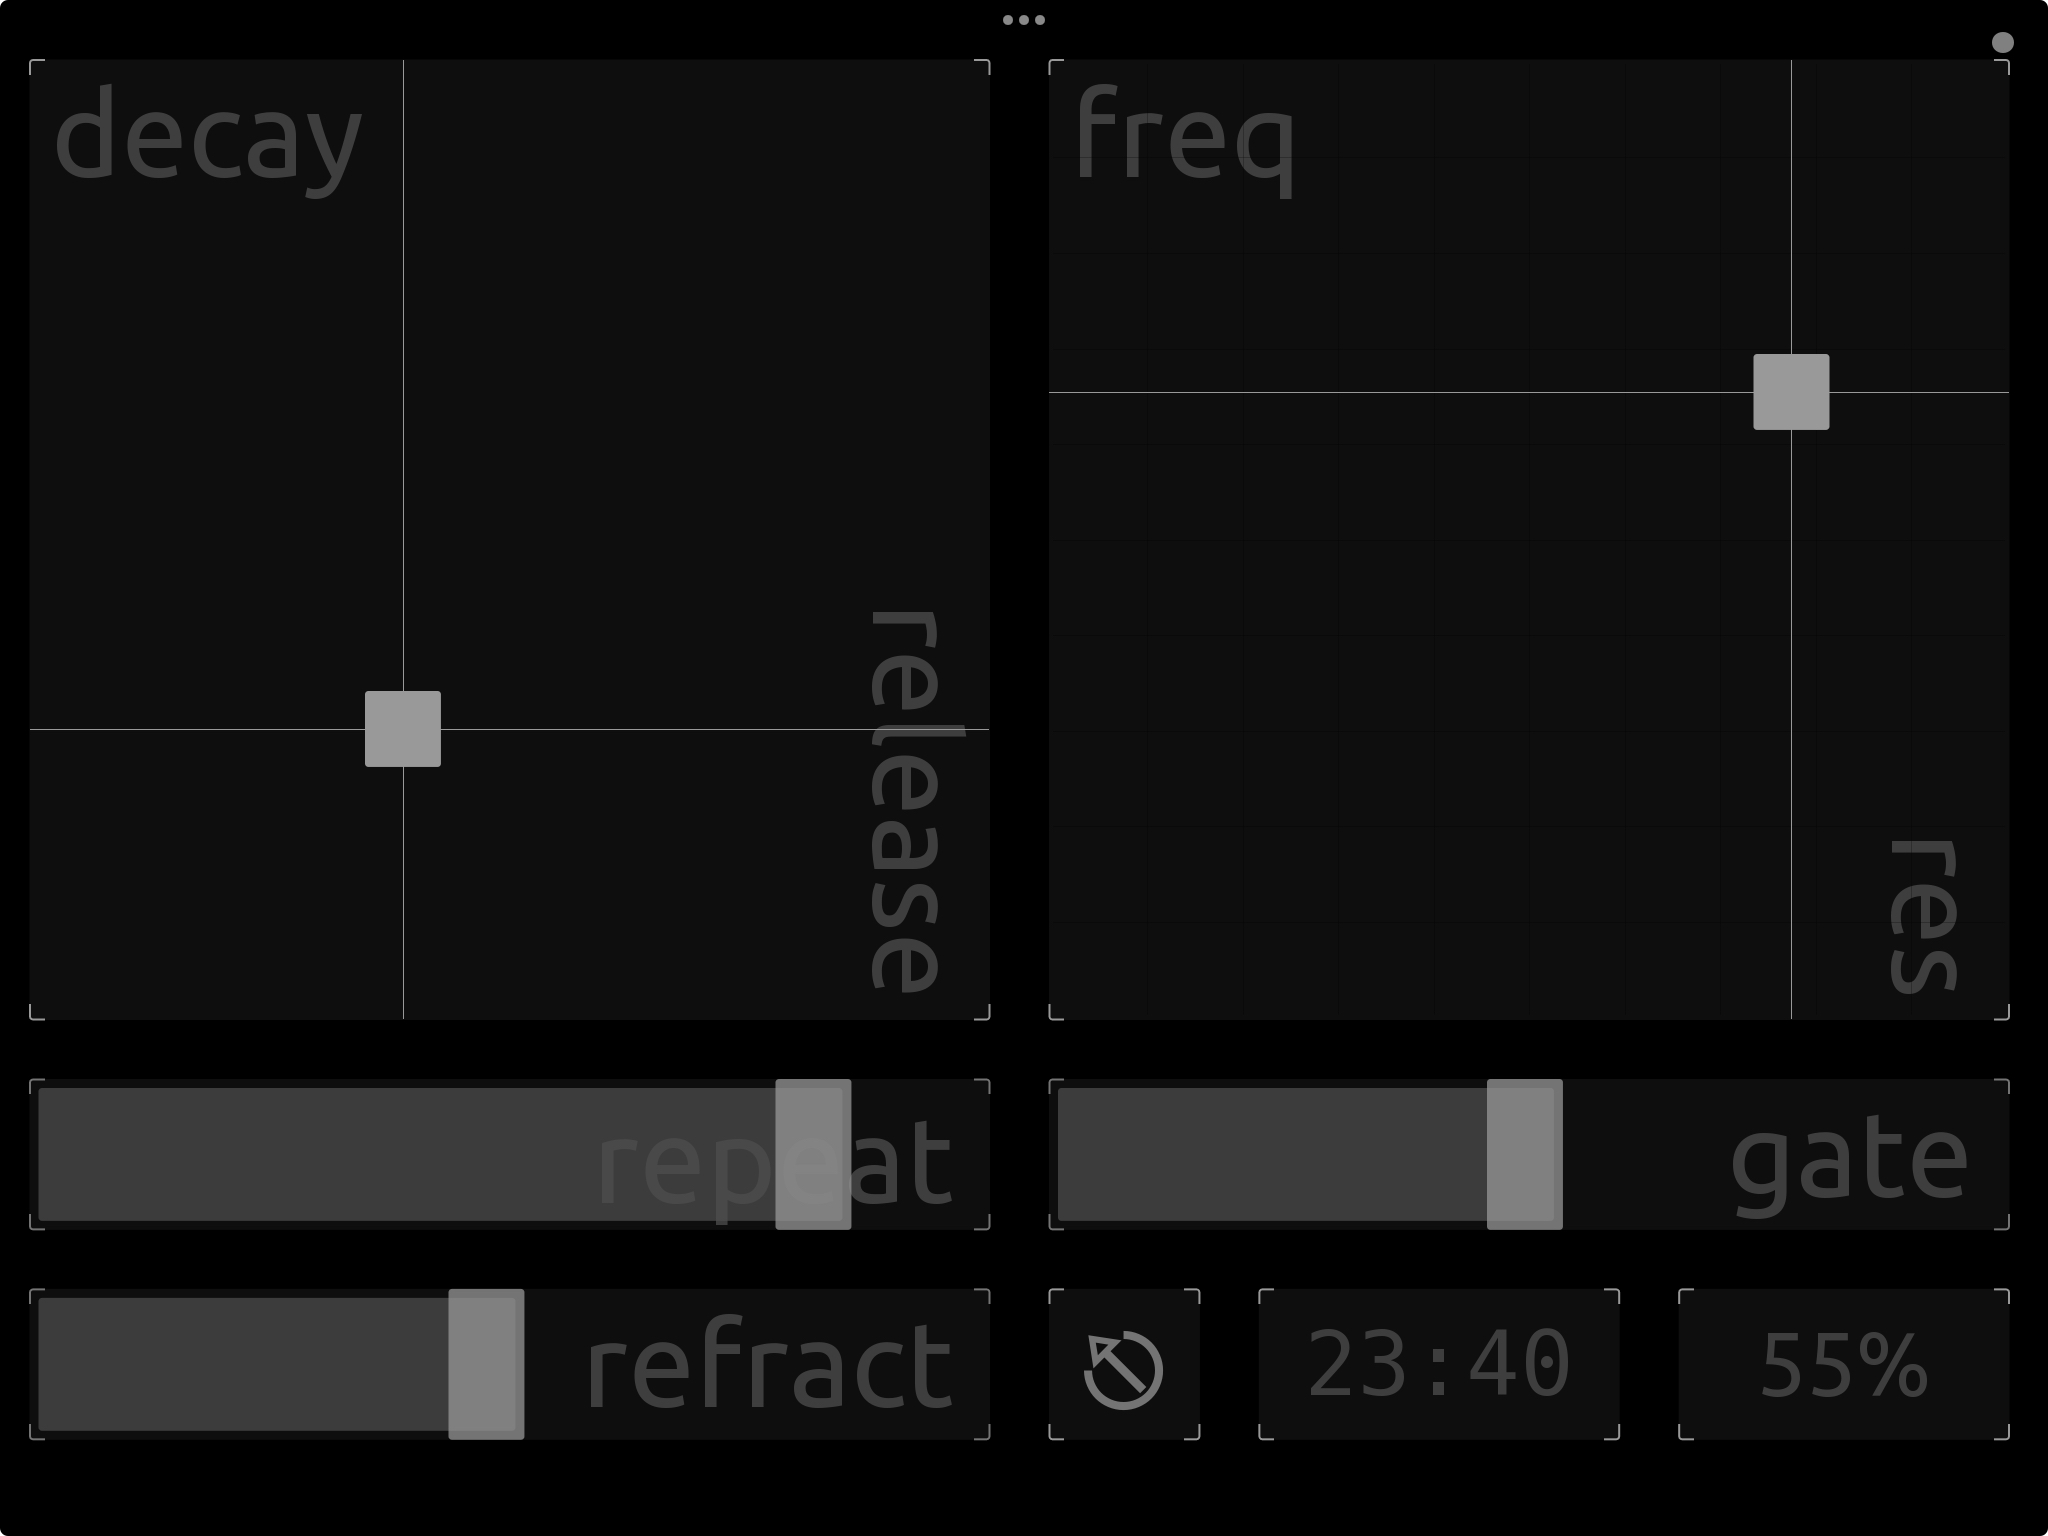
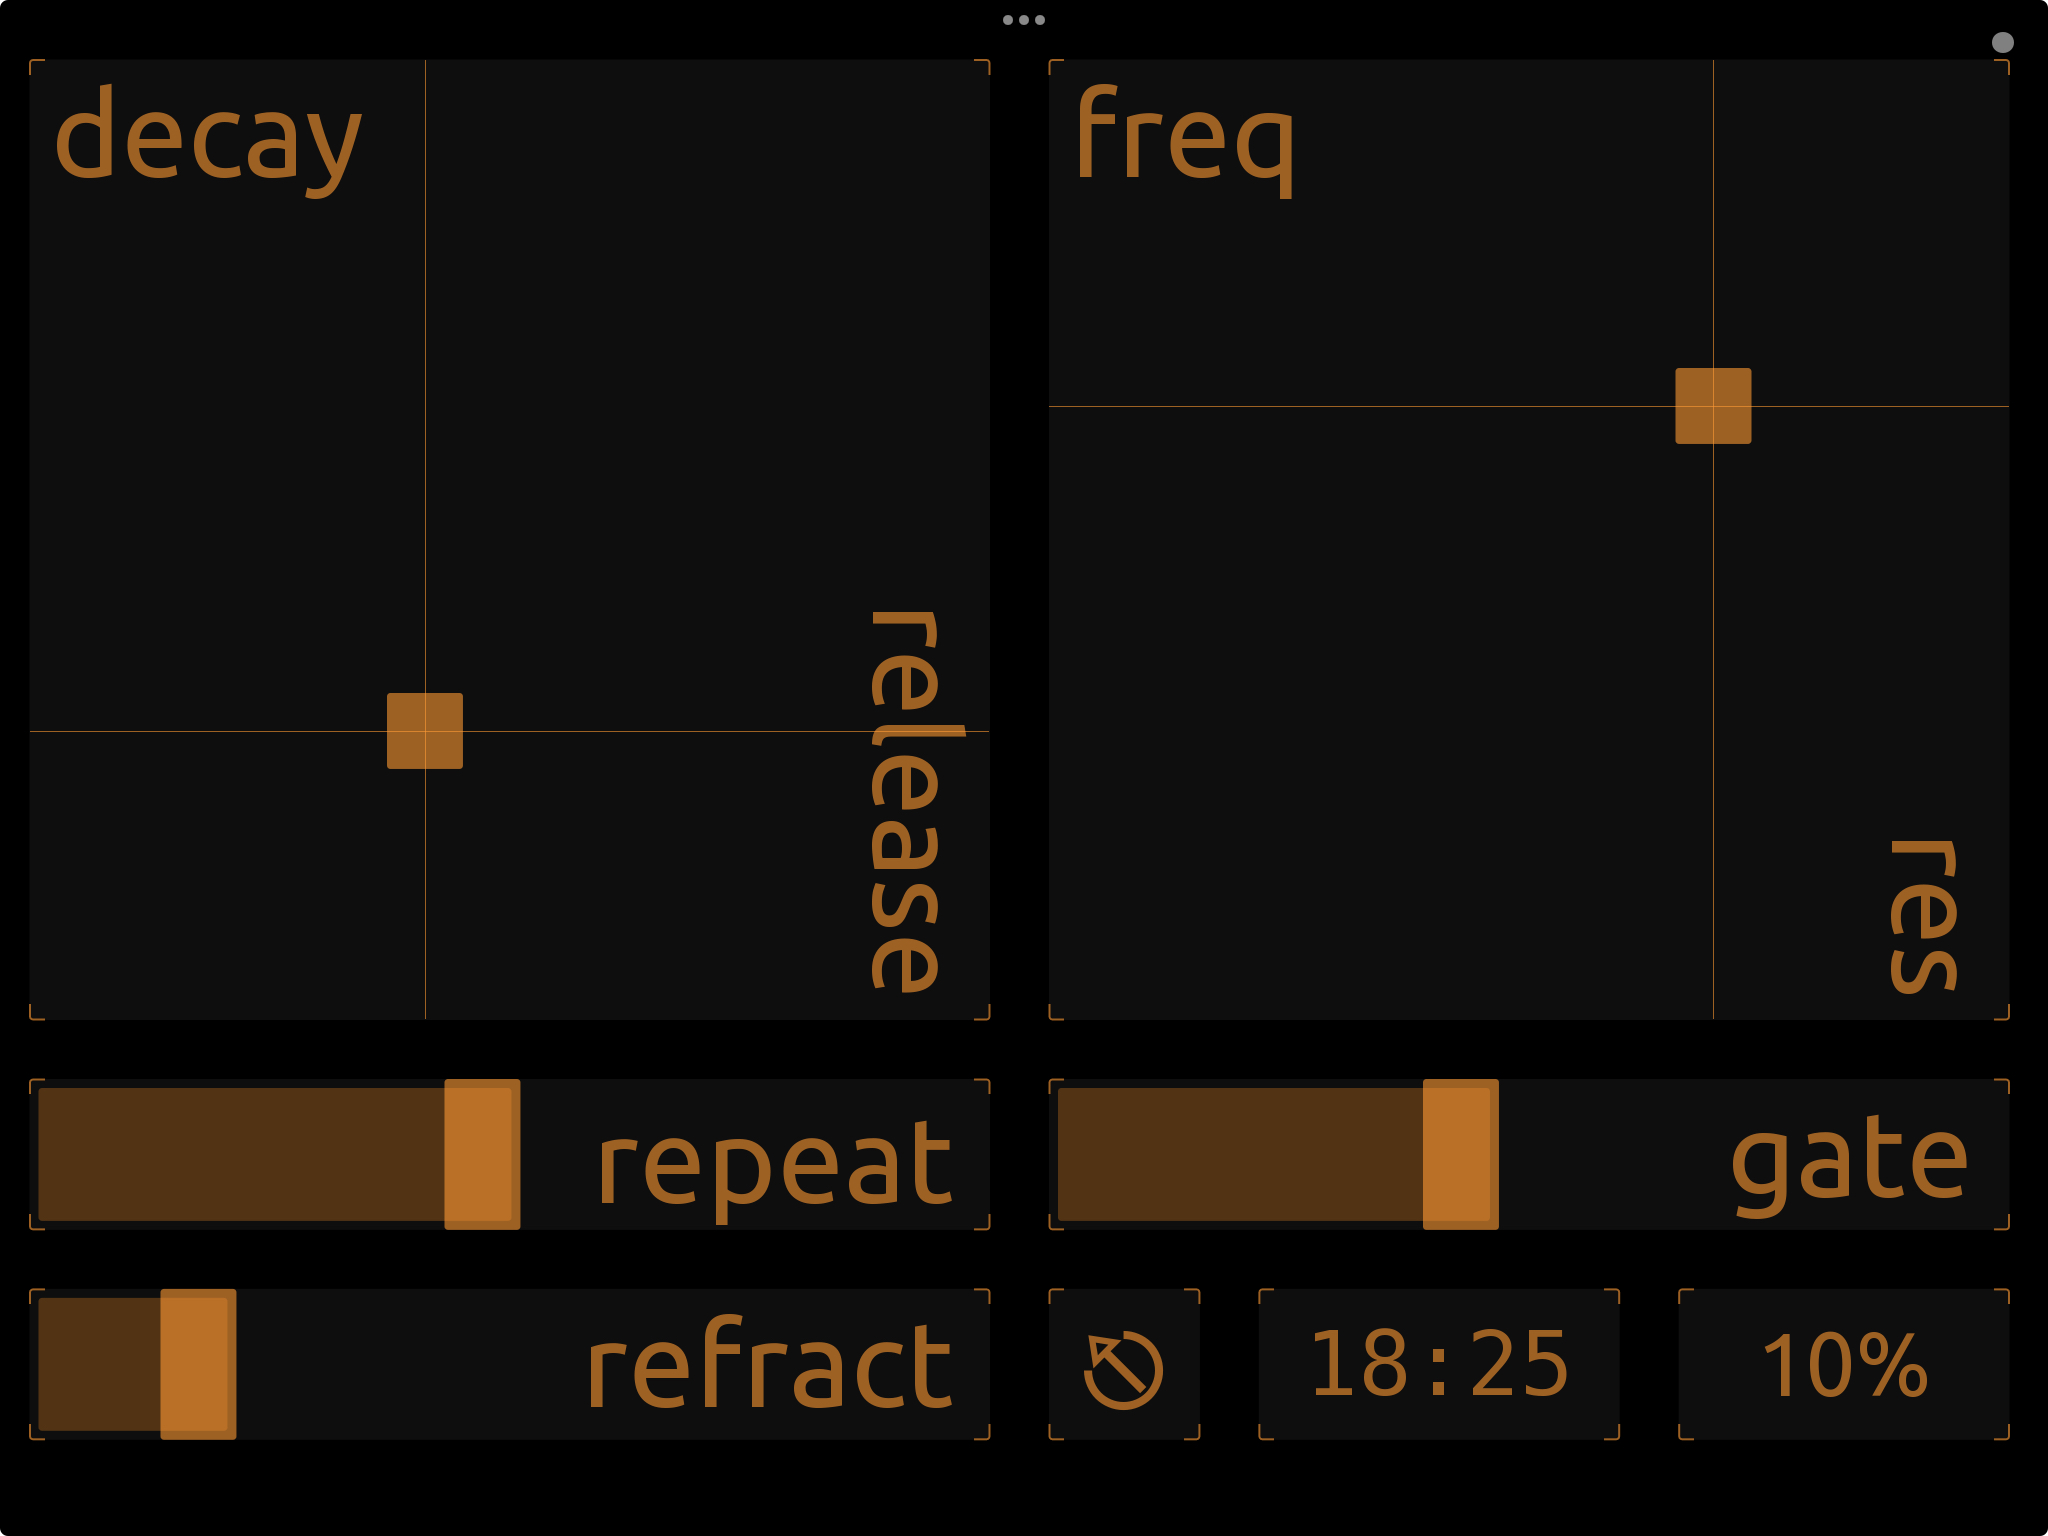
update TOSC project description

diff --git a/docs/projects/touchosc-live/index.html b/docs/projects/touchosc-live/index.html
@@ -42,7 +42,8 @@
         
     <h1>TouchOSC interface for Ableton Live</h1>
     <p>Touch-based controls for Ableton Live, allowing multiple virtual synthesizer and effect parameters to be controlled via MIDI messages.</p>
-<p><strong>Coming soon: full description and images.</strong></p>
+<p>The interface was created using TouchOSC. It sends a set of preset MIDI Control Change messages to Ableton Live, where they’re mapped to device parameters and macros on the Hive 2 virtual synth. It also includes simple scripts for displaying a clock and a battery level indicator. There’s a button for resetting all the parameters to their initial state.</p>
+<p>The UI is designed with live performance in mind. Some parameters use XY pads for better visual feedback, while others are controlled with long, wide sliders for easier manipulation. All labels use large fonts, and the color scheme (amber on black) is chosen for its eye-friendly contrast in dark environments, such as on stage.</p>
 
     <div class="gallery">
                 <a href="/img/touchosc-live/thumbnail.jpg">

diff --git a/docs/projects/index.html b/docs/projects/index.html
@@ -43,7 +43,7 @@
     <main class="projects ">
         
     <h1>Projects</h1>
-    <p>Here are the most important projects I’ve worked on or contributed to as a creative developer.</p>
+    <p>Here are some of the most important of interesting projects I’ve worked on or contributed to as a creative developer.</p>
 
     <ul class="projects"><li class="project" style="--thumbnail: url(/img/vizzu/thumbnail.png)">
             <a

diff --git a/src/projects/touchosc-live.md b/src/projects/touchosc-live.md
@@ -7,4 +7,6 @@ date: 2025-08-01
 
 Touch-based controls for Ableton Live, allowing multiple virtual synthesizer and effect parameters to be controlled via MIDI messages.
 
-**Coming soon: full description and images.**
+The interface was created using TouchOSC. It sends a set of preset MIDI Control Change messages to Ableton Live, where they’re mapped to device parameters and macros on the Hive 2 virtual synth. It also includes simple scripts for displaying a clock and a battery level indicator. There’s a button for resetting all the parameters to their initial state.
+
+The UI is designed with live performance in mind. Some parameters use XY pads for better visual feedback, while others are controlled with long, wide sliders for easier manipulation. All labels use large fonts, and the color scheme (amber on black) is chosen for its eye-friendly contrast in dark environments, such as on stage.

diff --git a/src/projects/index.md b/src/projects/index.md
@@ -5,4 +5,4 @@ title: Projects
 position: 2
 ---
 
-Here are the most important projects I’ve worked on or contributed to as a creative developer.
+Here are some of the most important of interesting projects I’ve worked on or contributed to as a creative developer.
